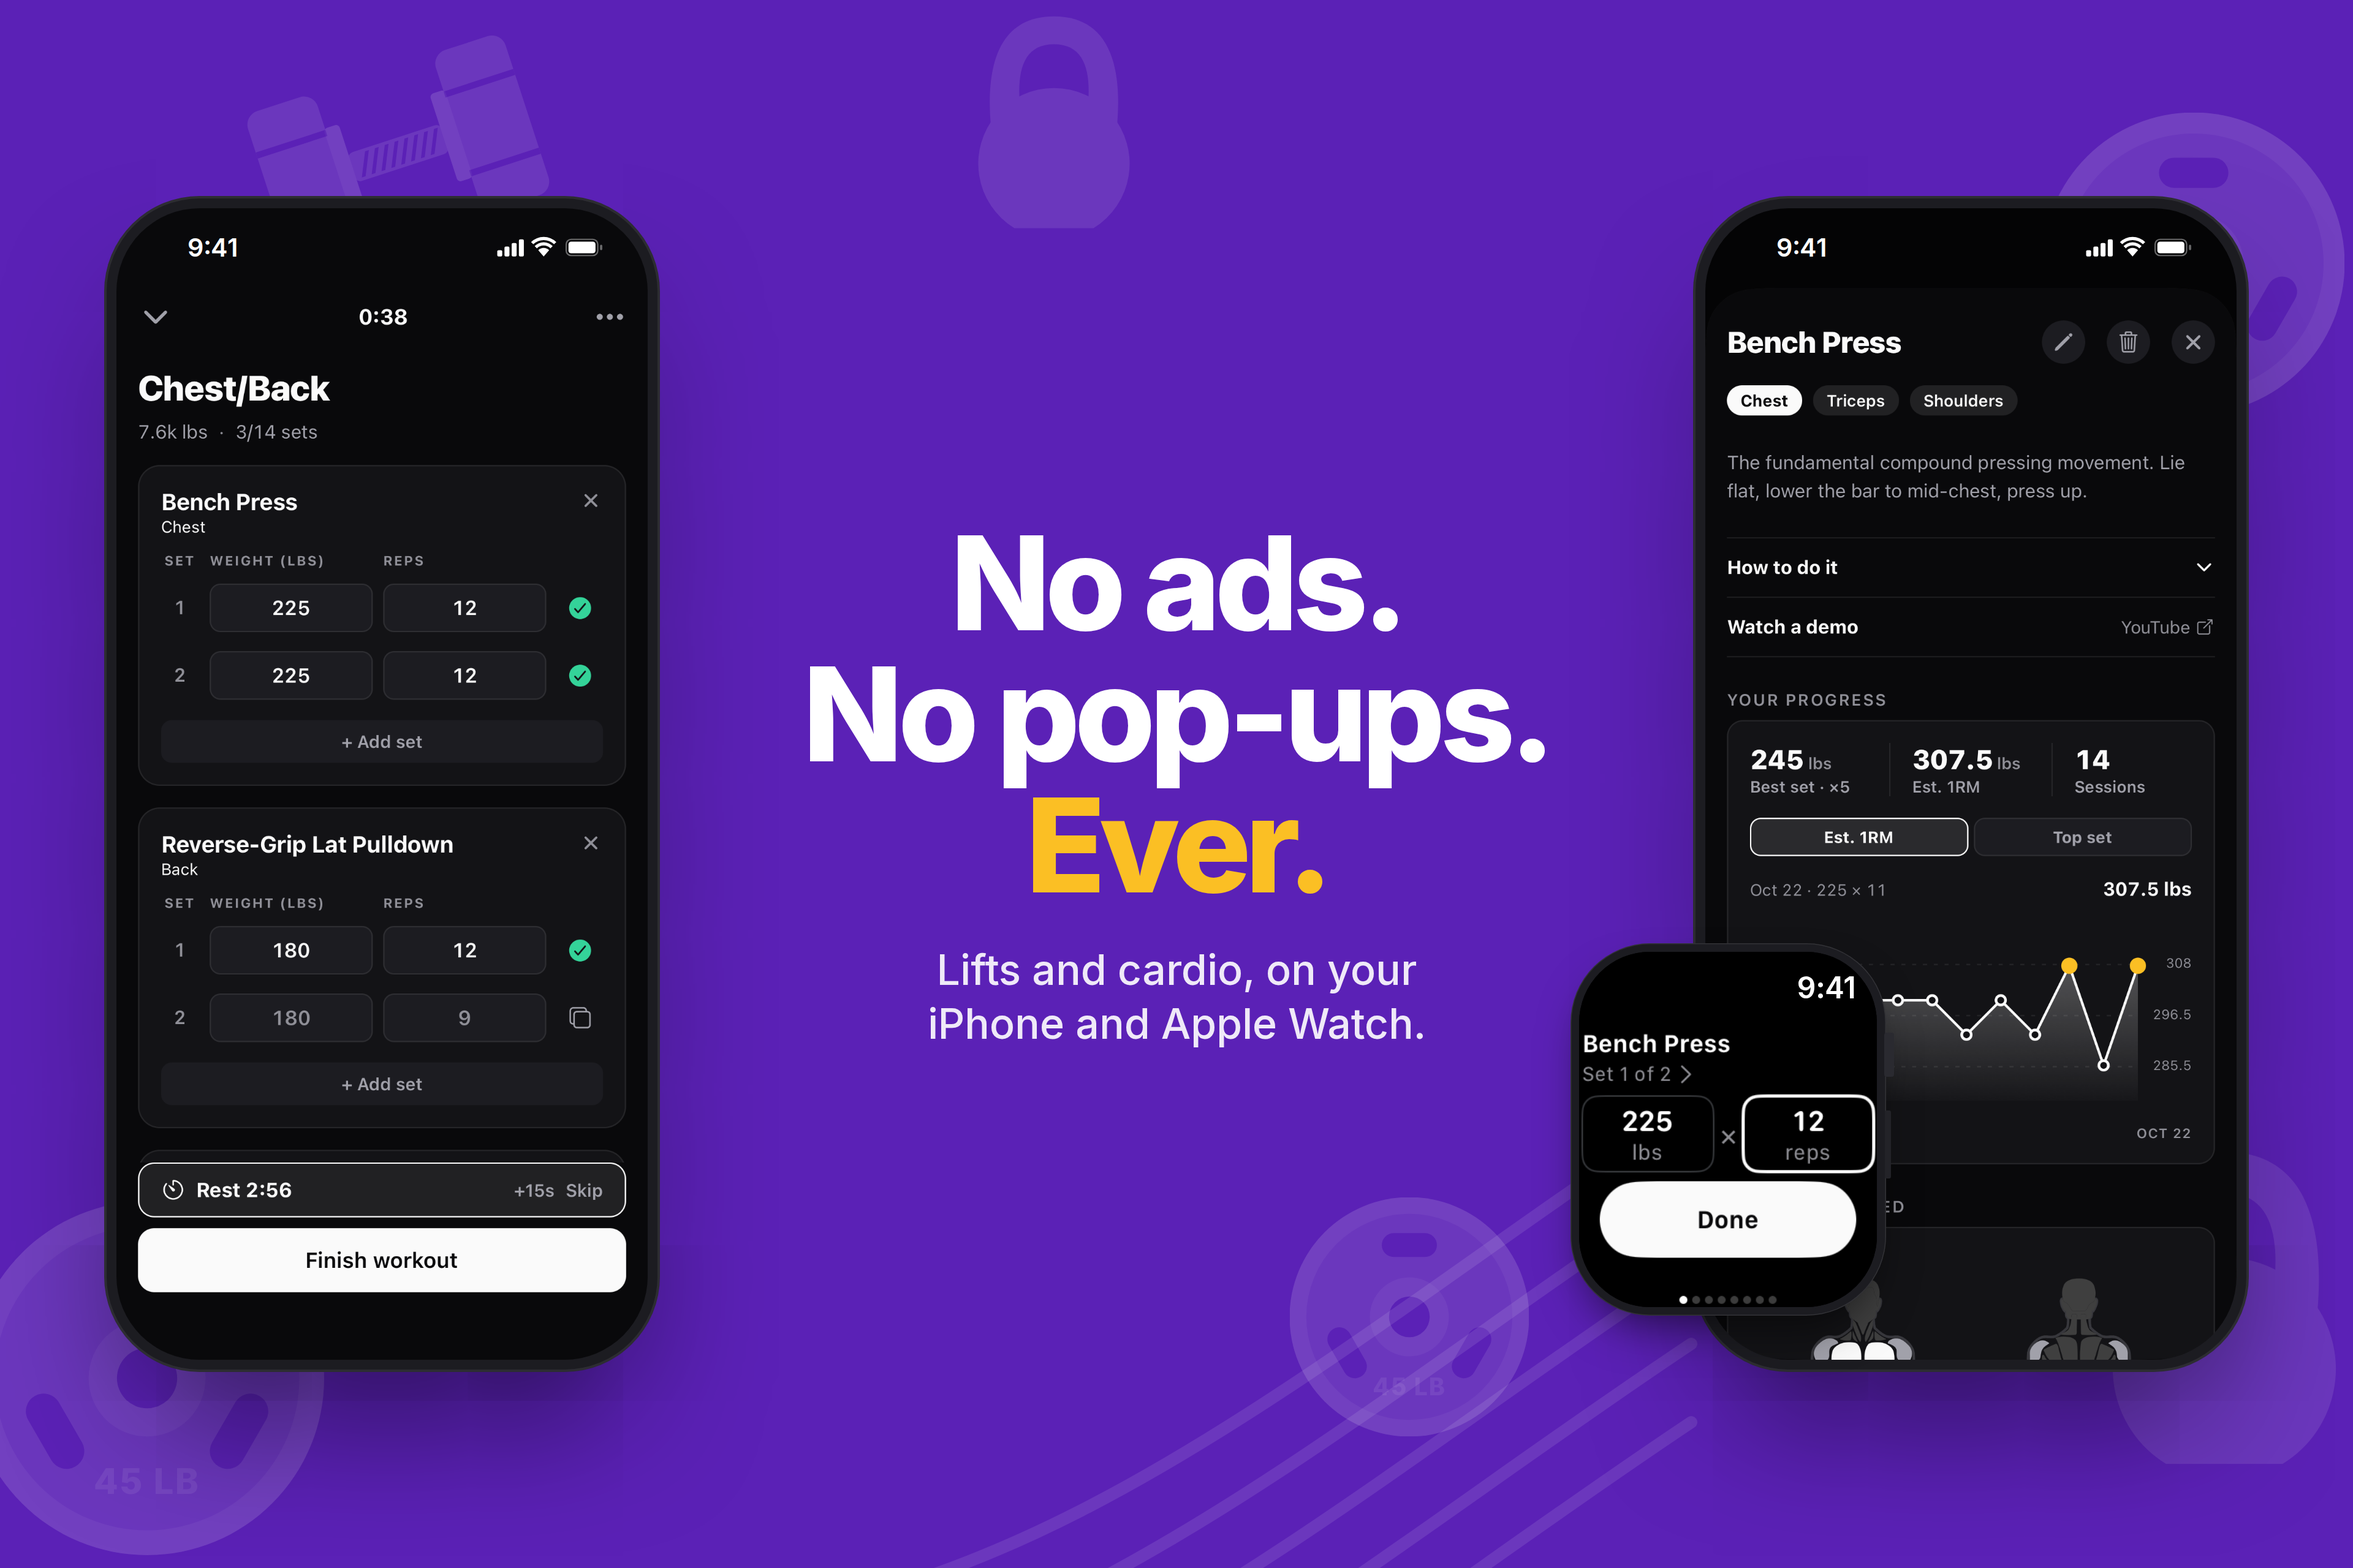
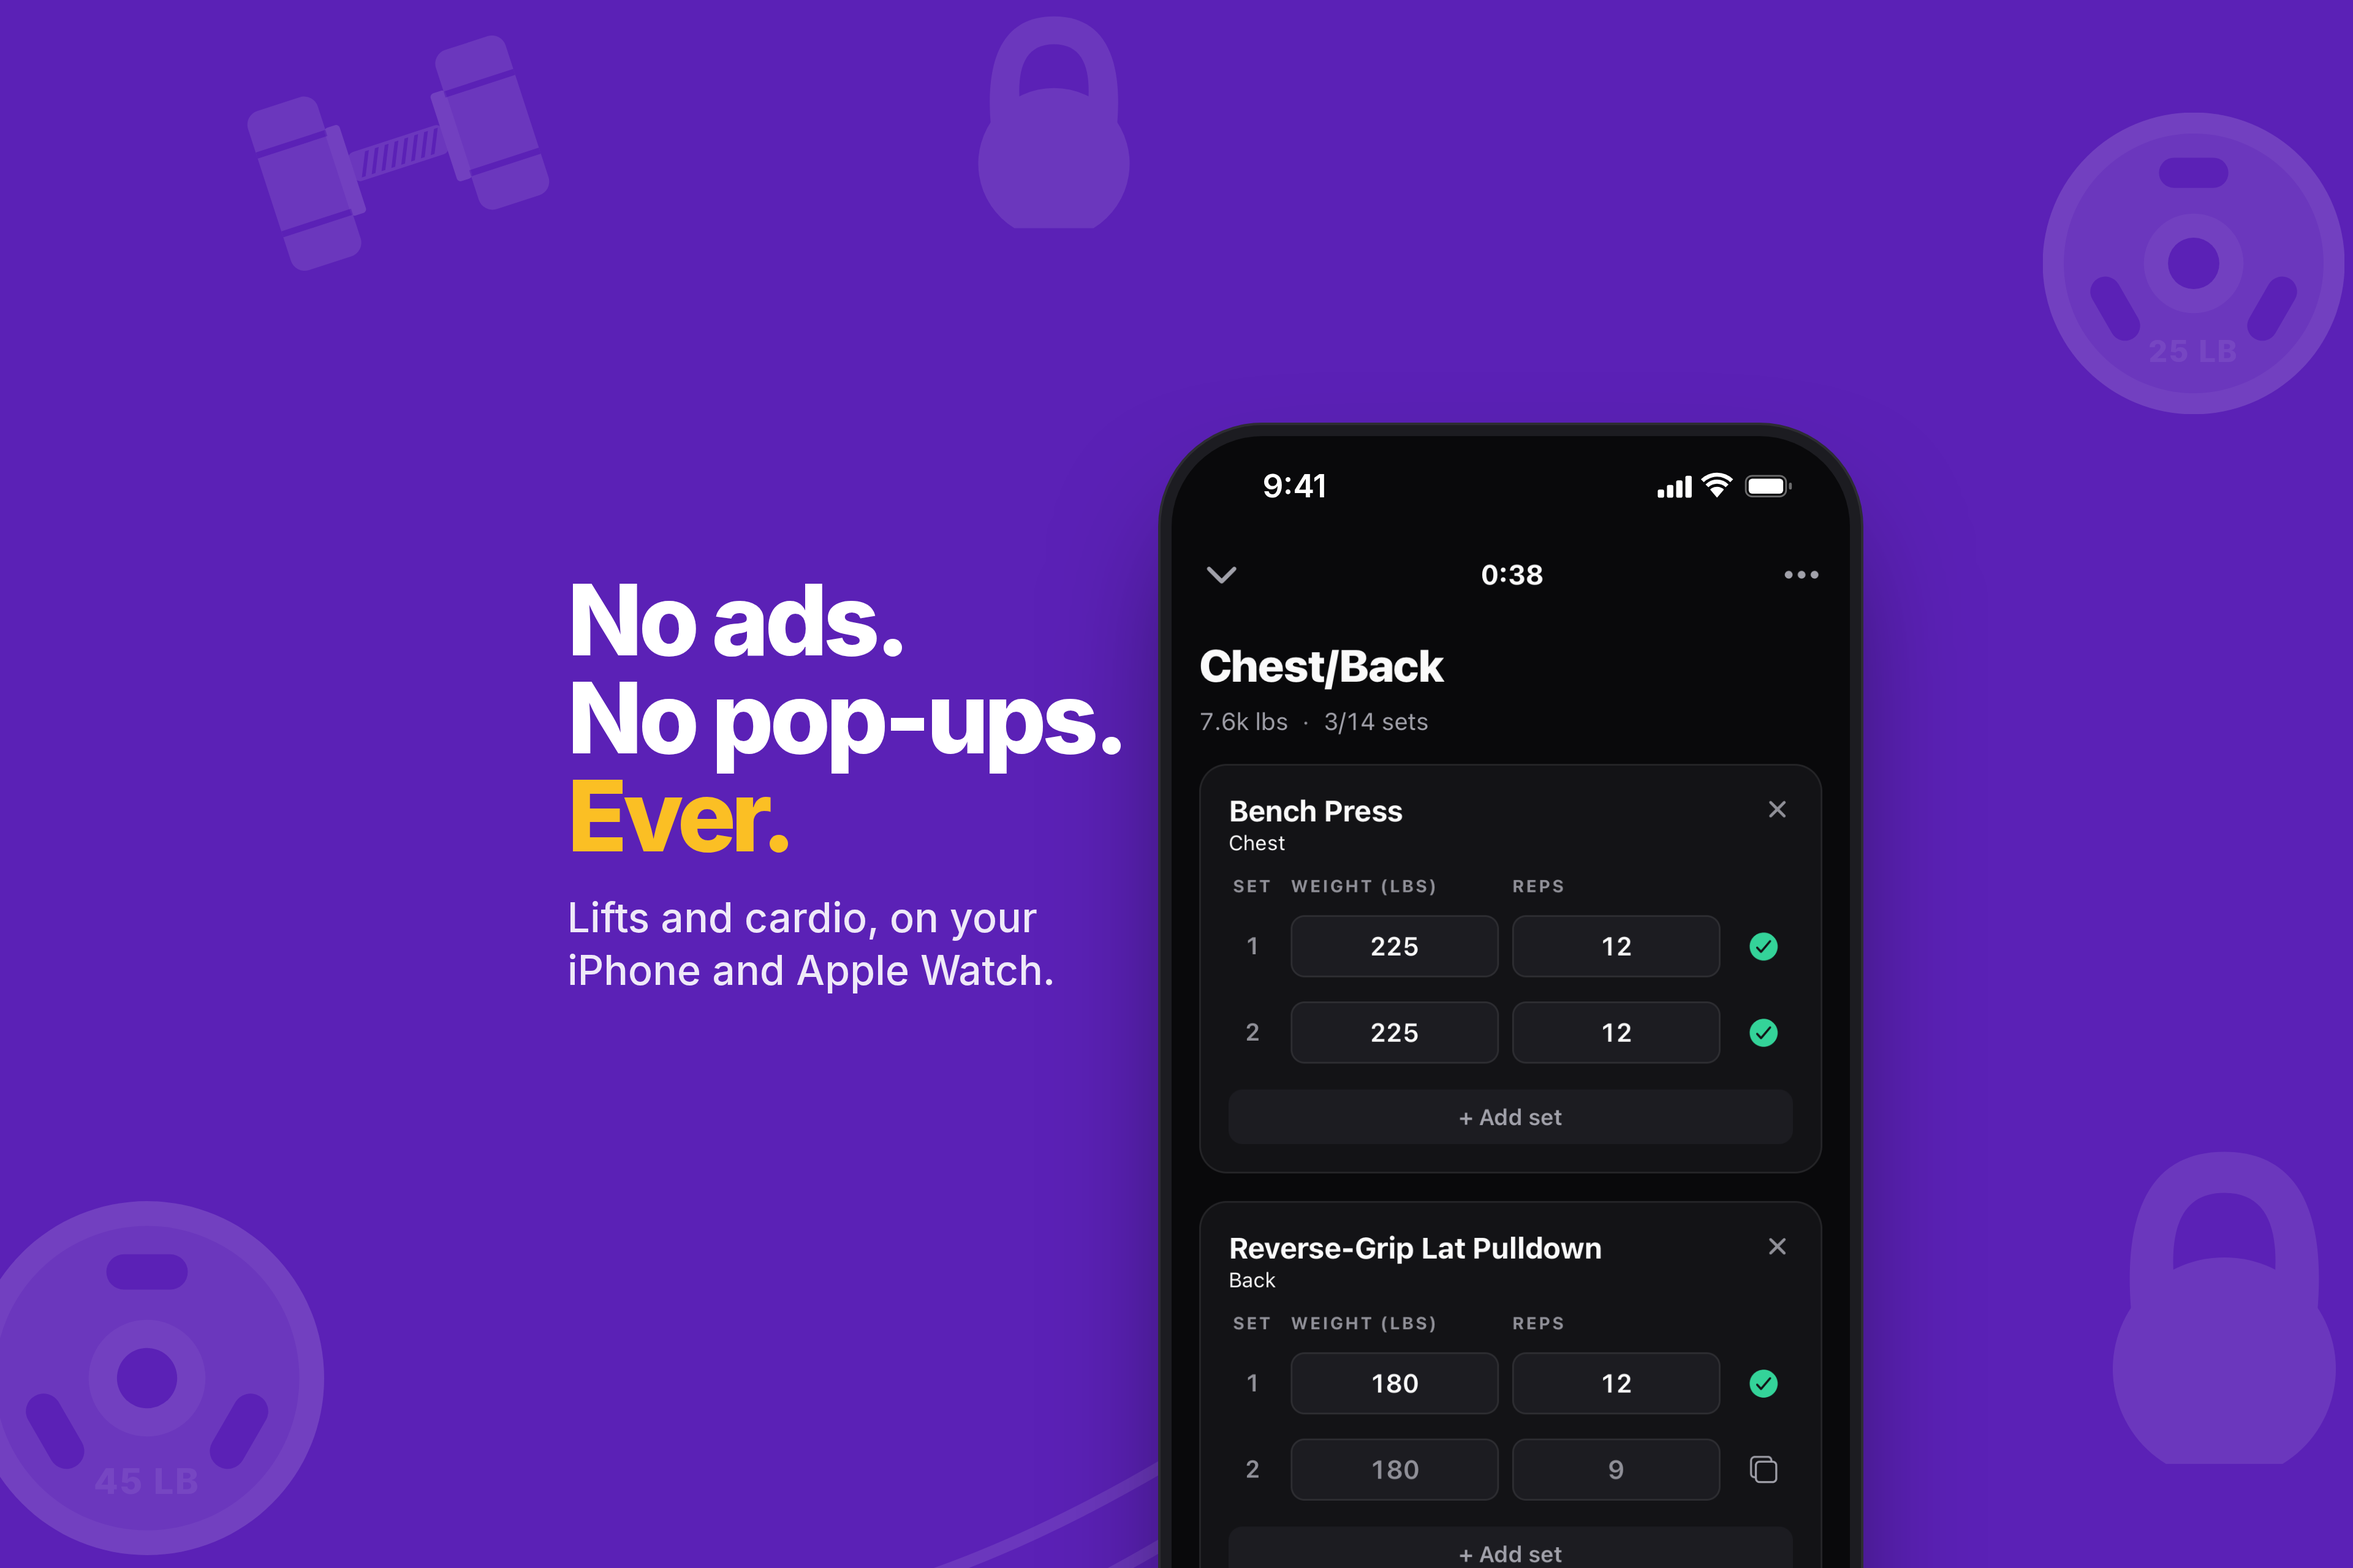
Lay the search results image out for the safe band every crop keeps
Even at the card's own 3:2 the search image is cropped per device, keeping
at least the band through the middle that Apple's search template marks as
safe. Two phones at the edges would have shown as slivers in a tight crop,
so: the words in the band on the left, one big phone on the right whose
status bar and title sit inside the band and which runs off the bottom.
Checked at the whole image, a middle crop and the band alone, each at an
iPhone card's width.

diff --git a/store/screenshots/render.py b/store/screenshots/render.py
@@ -16,11 +16,14 @@ captions.json:
   and later, into header-and-search/. The header, 3840 x 1646, is just the
   words, filling the safe area of Apple's header template (a band through the
   middle, which is about what an iPhone shows) with gym gear round them. The
-  search results image is 3840 x 2560, the search card's own 3:2 shape, so it
-  shows whole: the words between two phones. (It was 5244 x 2950, Apple's
-  16:9 "universal" size, which the card crops; on an iPhone the crop kept
-  little more than the safe area, so the card showed the words alone,
-  zoomed in, though App Store Connect's preview looked fine.)
+  search results image is 3840 x 2560, the search card's own 3:2 shape, laid
+  out for the band of Apple's template that every crop keeps: the words in
+  it on the left, one big phone on the right that starts in it and runs off
+  the bottom, so a tight crop shows the words and the top of the app, and a
+  loose one more of the phone. (It was 5244 x 2950, Apple's 16:9 "universal"
+  size, with a phone either side of the words; on an iPhone the live card
+  kept little more than the words, zoomed in, though App Store Connect's
+  preview looked fine.)
 
     python3 store/screenshots/render.py           # everything
     python3 store/screenshots/render.py 01 07     # just these iPhone ones
@@ -80,9 +83,13 @@ WATCH_SIZE = (416, 496)
 # static.psd and creative_assets-universal_asset_template-static.psd.
 HEADER_SIZE = (3840, 1646)
 HEADER_SAFE = (1097, 493, 2743, 1154)
-# The search card is 3:2, and Apple takes 1920 x 1280 to 3840 x 2560 for it;
-# at that shape nothing is cropped, so the layout below is the card.
+# The search card is 3:2, and Apple takes 1920 x 1280 to 3840 x 2560 for it.
+# Even so it's cropped to fit each device and orientation, keeping at least
+# the "Art Safe Area" of Apple's search template: a band 56% wide and 40%
+# tall (as measured from the template; Apple publishes no numbers). An
+# iPhone's card is about 365 pt wide.
 SEARCH_SIZE = (3840, 2560)
+SEARCH_SAFE = (836, 765, 3004, 1795)
 
 # Tailwind's 800 of each of the app's accents (theme.ts uses the 500s): deep
 # enough that white text clears 7:1 on every one. Graphite is zinc.
@@ -374,20 +381,20 @@ SEARCH_PAGE = """<!doctype html>
 html, body {{ margin: 0; width: {width}px; height: {height}px; overflow: hidden; background: {bg}; }}
 body {{ position: relative; font-family: "Inter", sans-serif; color: #fff; -webkit-font-smoothing: antialiased; }}
 .gear {{ position: absolute; inset: 0; width: 100%; height: 100%; }}
-.words {{ position: absolute; left: {safe_x}px; top: {safe_y}px; width: {safe_w}px; height: {safe_h}px;
-          display: flex; flex-direction: column; align-items: center; justify-content: center; text-align: center; }}
-h1 {{ margin: 0; font-size: 214px; font-weight: 800; line-height: 1.0; letter-spacing: -0.045em; }}
+/* The words fill the left of the safe band, left-aligned, centred top to
+   bottom in it. */
+.words {{ position: absolute; left: {words_x}px; top: {words_y}px; width: {words_w}px; height: {words_h}px;
+          display: flex; flex-direction: column; justify-content: center; }}
+h1 {{ margin: 0; font-size: {headline_px}px; font-weight: 800; line-height: 1.0; letter-spacing: -0.045em; }}
 .highlight {{ color: {highlight}; }}
-p {{ margin: 52px 0 0; font-size: 68px; font-weight: 500; line-height: 1.3; color: rgba(255,255,255,.9); text-wrap: balance; }}
-.phone {{ position: absolute; padding: 20px; background: #1c1c21; border-radius: 156px;
+p {{ margin: 44px 0 0; font-size: {subline_px}px; font-weight: 500; line-height: 1.3; color: rgba(255,255,255,.9); text-wrap: balance; }}
+.phone {{ position: absolute; padding: 22px; background: #1c1c21; border-radius: 170px;
           box-shadow: inset 0 0 0 4px rgba(255,255,255,.08), 0 120px 220px -60px rgba(0,0,0,.6); }}
-.phone img {{ display: block; height: {phone_h}px; width: auto; border-radius: 136px; }}
-.phone .status {{ position: absolute; top: 20px; left: 20px; width: calc(100% - 40px); height: calc(100% - 40px); }}
-{watch_css}
+.phone img {{ display: block; height: {phone_h}px; width: auto; border-radius: 148px; }}
+.phone .status {{ position: absolute; top: 22px; left: 22px; width: calc(100% - 44px); height: calc(100% - 44px); }}
 </style></head><body>
 {gear}
-{phones}
-{watch}
+{phone}
 <div class="words"><h1>{headline}</h1><p>{subline}</p></div>
 </body></html>
 """
@@ -402,12 +409,18 @@ SEARCH_GEAR = [
     (2300, 2150, 1.15, 0, lambda: plate("45")),
 ]
 CREATIVE_GEAR_OPACITY = 0.67
-# Two whole phones in from the edges, the words between them. On an iPhone the
-# card is about 1080 px wide, so the 214 px headline shows at about 21 pt.
-SEARCH_PHONE_H = 1880
-SEARCH_EDGE = 170
-SEARCH_PHONE_GAP = 110
-SEARCH_WATCH_SCALE = 1.3
+# The words take the left of the safe band, in from its edge; the phone's top
+# sits just above the band, so its status bar and title show in the tightest
+# crop, its right edge at the band's, and it runs off the bottom. If an iPhone
+# shows only the band (2168 px across, at about 365 pt), the 160 px headline
+# is about 27 pt and the 66 px line about 11 pt.
+SEARCH_WORDS_INSET = 90
+SEARCH_WORDS_W = 960
+SEARCH_HEADLINE_PX = 160
+SEARCH_SUBLINE_PX = 66
+SEARCH_PHONE_H = 2400
+SEARCH_PHONE_X = 1890
+SEARCH_PHONE_TOP = 690
 
 
 # On the cardio screenshot, the phone moves left to make room for the watch.
@@ -544,35 +557,20 @@ def render_watch(shot: dict, index: int, plain: bool, browser: str, work: str) -
 
 
 def render_search(search: dict, phones: dict, browser: str, work: str) -> str:
-    """A phone at each side, centred top to bottom, the words between them,
-    the watch in front of the right phone."""
+    """The words in the left of the safe band, one big phone at the right
+    running off the bottom."""
     width, height = SEARCH_SIZE
-    phone_w = SEARCH_PHONE_H * RAW_SIZE[0] / RAW_SIZE[1]
-    frame_w = phone_w + 40
-    top = (height - SEARCH_PHONE_H - 40) / 2
-    left_x = SEARCH_EDGE
-    right_x = width - SEARCH_EDGE - frame_w
-    # The words take the space between the phones, as tall as the phones.
-    safe_x, safe_x2 = left_x + frame_w + SEARCH_PHONE_GAP, right_x - SEARCH_PHONE_GAP
-    safe_y, safe_y2 = top, top + SEARCH_PHONE_H + 40
-
-    def phone(out: str, left: float) -> str:
-        shot = phones[out]
-        raw = "file://" + clean_status_bar(shot, work)
-        lock = shot.get("statusBar") == "lock"
-        return (f'<div class="phone" style="left:{left:.0f}px;top:{top:.0f}px"><img src="{raw}" alt="">'
-                f'{STATUS_BAR.format(time="" if lock else STATUS_TIME)}</div>')
-
-    left_phone, right_phone = search["phones"]
+    safe_x, safe_y, safe_x2, safe_y2 = SEARCH_SAFE
+    shot = phones[search["phones"][0]]
+    raw = "file://" + clean_status_bar(shot, work)
+    lock = shot.get("statusBar") == "lock"
+    phone_html = (f'<div class="phone" style="left:{SEARCH_PHONE_X}px;top:{SEARCH_PHONE_TOP}px"><img src="{raw}" alt="">'
+                  f'{STATUS_BAR.format(time="" if lock else STATUS_TIME)}</div>')
     page_html = SEARCH_PAGE.format(
         font="file://" + os.path.abspath(FONT), width=width, height=height, bg=ACCENT[search["accent"]],
-        highlight=HIGHLIGHT, safe_x=f"{safe_x:.0f}", safe_y=f"{safe_y:.0f}",
-        safe_w=f"{safe_x2 - safe_x:.0f}", safe_h=f"{safe_y2 - safe_y:.0f}",
-        phone_h=SEARCH_PHONE_H, watch_css=watch_css(SEARCH_WATCH_SCALE),
-        gear=creative_gear(SEARCH_GEAR, SEARCH_SIZE),
-        phones=phone(left_phone, left_x) + phone(right_phone, right_x),
-        watch=watch_html("file://" + clean_watch_clock(search["watch"], work),
-                         f"left:{right_x - 200:.0f}px;top:{top + SEARCH_PHONE_H + 40 - 700:.0f}px"),
+        highlight=HIGHLIGHT, words_x=safe_x + SEARCH_WORDS_INSET, words_y=safe_y, words_w=SEARCH_WORDS_W, words_h=safe_y2 - safe_y,
+        headline_px=SEARCH_HEADLINE_PX, subline_px=SEARCH_SUBLINE_PX, phone_h=SEARCH_PHONE_H,
+        gear=creative_gear(SEARCH_GEAR, SEARCH_SIZE), phone=phone_html,
         headline=headline_html(search, True), subline=html.escape(search["subline"]),
     )
     page = os.path.join(work, "search.html")

diff --git a/docs/store-listing.md b/docs/store-listing.md
@@ -218,11 +218,16 @@ The privacy policy and support contact are in the app under Profile → Help.
   step 3).
 - Header and search results (iOS 27 and later), in `store/screenshots/header-and-search/`:
   `header.png` (3840 × 1646) under Header, just the words, and `search-results.png`
-  (3840 × 2560) under Search Results, the words between two phones. The search card is 3:2,
-  and Apple takes 1920 × 1280 to 3840 × 2560 for it; at that shape it shows whole. The first
-  upload was 5244 × 2950, the 16:9 "universal" size, which the card crops: App Store
-  Connect's preview looked fine, but on an iPhone the live card kept little more than the
-  middle, so it showed the words alone, zoomed in. "Use header asset in search results"
+  (3840 × 2560) under Search Results: the words on the left, one big phone on the right
+  running off the bottom. The search card is 3:2 (Apple takes 1920 × 1280 to 3840 × 2560),
+  but it's still cropped per device and orientation, keeping at least the "Art Safe Area" of
+  Apple's search template, a band through the middle (x 836–3004, y 765–1795, as measured
+  from the template). The words sit inside that band and the phone starts just above it, so
+  the tightest crop shows the words and the top of the app, and a loose one more of the
+  phone. The first upload was 5244 × 2950, the 16:9 "universal" size, with a phone either
+  side of the words: App Store Connect's preview looked fine, but on an iPhone the live card
+  kept little more than the words, zoomed in. Check the new one in Device Preview on an
+  iPhone before submitting. "Use header asset in search results"
   stays unticked: one image cropped for both left the header too zoomed in.
   Their words are in `captions.json` under "header" and "search", and they keep to Apple's
   rules for these: no prices, web addresses, © or other platforms' logos.

diff --git a/docs/next-release.md b/docs/next-release.md
@@ -38,8 +38,11 @@ App Store, step 7.
    Header and Search Results → Search Results, upload the new
    `store/screenshots/header-and-search/search-results.png` (3840 × 2560).
    The first one was 16:9 and the live iPhone card cropped it to the words
-   alone; this one is the card's own 3:2 and shows whole. It needs no new
-   version. Check it on a phone once it's live.
+   alone. This one is the card's own 3:2, laid out so even the tightest
+   crop Apple's template allows shows the words and the top of the app.
+   The page for the live version won't take it (the upload is greyed out),
+   so it goes on the next version, 1.2.1. Check it in Device Preview on an
+   iPhone, and on a phone once it's live.
 2. Step 7: 1.2.0 was approved and is on the App Store (October 27), so:
    check the listing's support and privacy links, delete the plato-support
    repo, make this repo private, and bump the version before the next build.
